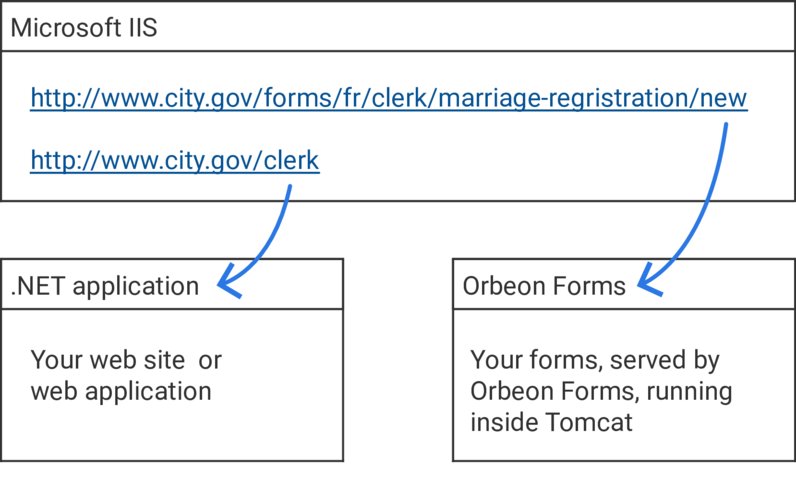
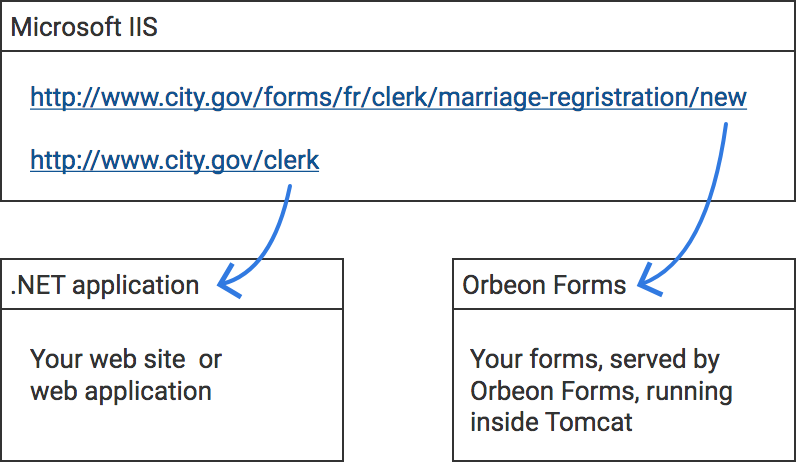
New way to export images

diff --git a/form-runner/link-embed/linking.md b/form-runner/link-embed/linking.md
@@ -10,13 +10,13 @@ When you publish the form, assuming you have Orbeon Forms deployed on a server o
 
 In a typical deployment, users will access this page from another part of your web site or web application that contains a link to form served by Orbeon Forms. For instance, a city government might have on its web site a page listing forms citizen can fill out, which links to the marriage registration form on `http://www.city.gov/forms/fr/clerk/marriage-registration/new`.
 
-<img alt="Page on your web site/app linking to a form" src="../images/linking-page-with-link.png" width="491">
+<img alt="Page on your web site/app linking to a form" src="../images/linking-page-with-link.png" width="484">
 
 ## Technology agnostic
 
 Linking doesn't make any assumption on the technology used by the web site or application you're linking from. Your site could use Drupal, WordPress, be served by IIS, using .NET, or any other technology. For instance, the diagram below is for a situation where your web site is served by Microsoft IIS, implemented in .NET, and links to forms served by Orbeon Forms.
 
-<img alt="IIS front-end" src="../images/linking-iis-net.png" width="398">
+<img alt="IIS front-end" src="../images/linking-iis-net.png" width="441">
 
 ## Paths
 
